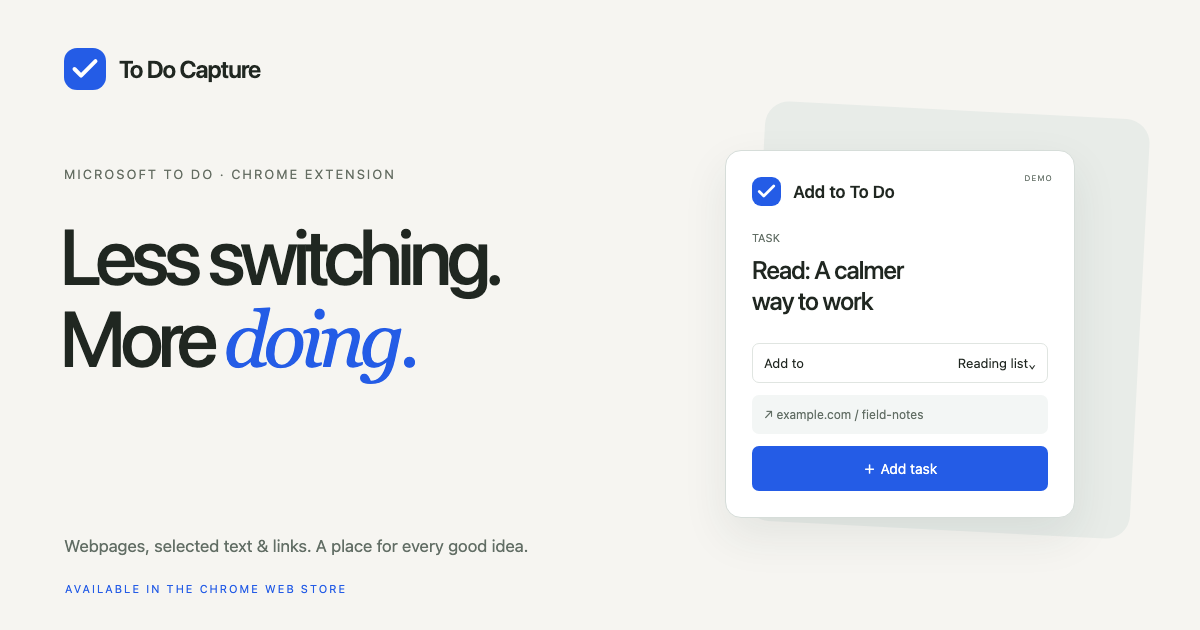
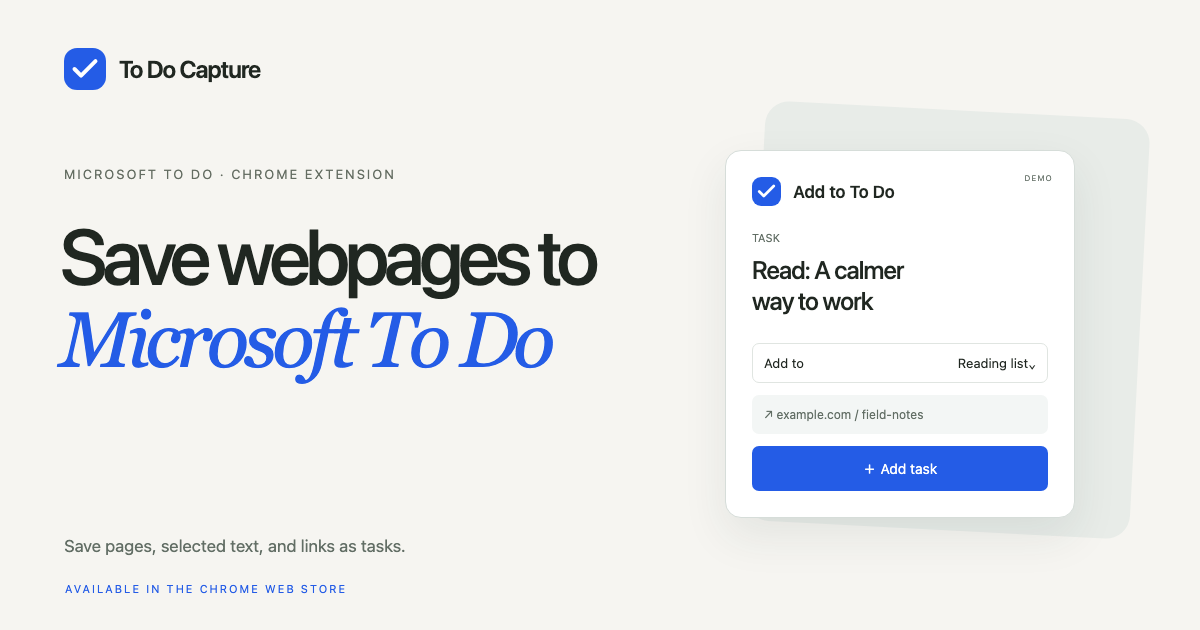
Simplify both homepages around core capture features (#8)

Changed region(s): [[0.0308, 0.3619, 0.4933, 0.6032], [0.0308, 0.8444, 0.4317, 0.8746]]

diff --git a/src/assets/site.css b/src/assets/site.css
@@ -1,34 +1,64 @@
 @layer base, layout, components, responsive;
 @layer base {
-  :root { --paper:#f6f5f1; --ink:#202721; --muted:#697169; --line:#dedfd7; --blue:#245ce6; --blue-soft:#e7edff; --green:#dce5d6; font-family:Inter,-apple-system,BlinkMacSystemFont,"Segoe UI","PingFang SC",sans-serif; color:var(--ink); background:var(--paper); font-synthesis:none; scroll-behavior:smooth; }
-  * { box-sizing:border-box; } body { margin:0; } h1,h2,h3,h4,p { margin:0; } button,input,select { font:inherit; } button,a,summary,select { -webkit-tap-highlight-color:transparent; } button,a,summary { touch-action:manipulation; } button,summary { cursor:pointer; } button { color:inherit; } a { color:inherit; text-decoration:none; } a:hover { color:var(--blue); } button:focus-visible,a:focus-visible,summary:focus-visible,select:focus-visible { outline:3px solid var(--blue); outline-offset:5px; } ::selection { background:#cfddff; color:var(--ink); } [hidden] { display:none!important; } .icon { width:21px; height:21px; flex:none; } .wrap { width:min(1120px,calc(100% - 64px)); margin-inline:auto; } .eyebrow { display:block; font-size:11px; font-weight:650; letter-spacing:.13em; line-height:1.6; } .brand { display:inline-flex; align-items:center; gap:10px; font-size:17px; font-weight:650; letter-spacing:-.045em; white-space:nowrap; } .brand-mark { flex:none; } .skip-link { position:absolute; left:16px; top:-100px; background:var(--ink); color:#fff; padding:12px; z-index:20; } .skip-link:focus { top:12px; color:#fff; }
-  h2 { font-size:45px; font-weight:500; letter-spacing:-.055em; line-height:1.17; } h3 { font-weight:550; letter-spacing:-.025em; } .button { display:inline-flex; justify-content:center; align-items:center; gap:20px; background:var(--blue); color:#fff; border:1px solid transparent; border-radius:7px; padding:15px 22px; font-size:14px; font-weight:550; min-height:50px; transition:background .18s,transform .18s; } .button:hover { background:#174cc9; color:#fff; transform:translateY(-1px); } .button:disabled { cursor:default; opacity:.75; transform:none; } .button-quiet { background:transparent; color:var(--ink); border-color:var(--line); } .button-quiet:hover { background:#ebece6; color:var(--ink); } .button-small { font-size:12px; min-height:40px; padding:10px 14px; gap:8px; } .text-button { display:inline-flex; gap:6px; align-items:center; background:none; border:0; color:var(--blue); font-size:12px; padding:5px 0; } .text-button .icon { width:16px; height:16px; }
+  :root { --paper:#f6f5f1; --ink:#202721; --muted:#697169; --line:#dedfd7; --blue:#245ce6; font-family:Inter,-apple-system,BlinkMacSystemFont,"Segoe UI","PingFang SC",sans-serif; color:var(--ink); background:var(--paper); font-synthesis:none; scroll-behavior:smooth; }
+  * { box-sizing:border-box; } body { margin:0; } h1,h2,p { margin:0; } button { font:inherit; } button,a { -webkit-tap-highlight-color:transparent; } button,a { touch-action:manipulation; } button { cursor:pointer; } button { color:inherit; } a { color:inherit; text-decoration:none; } a:hover { color:var(--blue); } button:focus-visible,a:focus-visible { outline:3px solid var(--blue); outline-offset:5px; } ::selection { background:#cfddff; color:var(--ink); } [hidden] { display:none!important; } .icon { width:21px; height:21px; flex:none; } .wrap { width:min(1120px,calc(100% - 64px)); margin-inline:auto; } .eyebrow { display:block; font-size:11px; font-weight:650; letter-spacing:.13em; line-height:1.6; } .brand { display:inline-flex; align-items:center; gap:10px; font-size:17px; font-weight:650; letter-spacing:-.045em; white-space:nowrap; } .brand-mark { flex:none; } .skip-link { position:absolute; left:16px; top:-100px; background:var(--ink); color:#fff; padding:12px; z-index:20; } .skip-link:focus { top:12px; color:#fff; }
+  h2 { font-size:45px; font-weight:500; letter-spacing:-.055em; line-height:1.17; } .button { display:inline-flex; justify-content:center; align-items:center; gap:20px; background:var(--blue); color:#fff; border:1px solid transparent; border-radius:7px; padding:15px 22px; font-size:14px; font-weight:550; min-height:50px; transition:background .18s,transform .18s; } .button:hover { background:#174cc9; color:#fff; transform:translateY(-1px); } .button:disabled { cursor:default; opacity:.75; transform:none; } .button-quiet { background:transparent; color:var(--ink); border-color:var(--line); } .button-quiet:hover { background:#ebece6; color:var(--ink); } .button-small { font-size:12px; min-height:40px; padding:10px 14px; gap:8px; }
 }
 @layer layout {
   .nav-reward { display:inline-flex; align-items:center; gap:5px; padding:6px 9px; border:1px solid rgba(255,128,200,.4); border-radius:7px; background:#ffeff7; color:#bf3989; font-weight:600; white-space:nowrap; }
   .nav-reward:hover { color:#bf3989; border-color:#bf3989; }
   .nav-reward .icon { width:14px; height:14px; }
   .site-header { height:94px; display:flex; align-items:center; justify-content:space-between; border-bottom:1px solid var(--line); } .site-header nav { display:flex; align-items:center; gap:32px; font-size:12px; } .site-header .language { display:inline-flex; align-items:center; gap:7px; } .language .icon { width:16px; height:16px; } .nav-source { display:flex; align-items:center; gap:10px; } .nav-source .icon { width:16px; height:16px; transform:rotate(-40deg); }
-  .hero { display:grid; grid-template-columns:1fr 250px; column-gap:65px; align-items:end; padding-block:82px 72px; } .hero .eyebrow { color:var(--muted); } h1 { font-size:clamp(58px,6.9vw,86px); letter-spacing:-.065em; font-weight:500; line-height:1.04; margin-top:25px; } h1 em { font-family:Georgia,"Times New Roman",serif; font-weight:400; letter-spacing:-.07em; color:var(--blue); } .hero-intro { font-size:16px; line-height:1.8; color:var(--muted); margin-top:28px; } .hero-actions { display:flex; align-items:center; gap:12px; flex-wrap:wrap; margin-top:32px; } .hero-actions .button-quiet { border:0; gap:10px; padding-inline:15px; } .hero-proof { list-style:none; padding:0; display:flex; flex-wrap:wrap; gap:20px; margin:30px 0 0; font-size:10px; color:var(--muted); } .hero-proof li { display:flex; align-items:center; gap:5px; } .hero-proof .icon { width:13px; height:13px; }
-  .release-note { border-top:1px solid var(--line); padding-top:17px; margin-bottom:6px; } .release-dot { display:inline-block; width:6px; height:6px; background:var(--blue); border-radius:100%; margin-right:5px; vertical-align:middle; } .release-note strong { font-size:10px; letter-spacing:.1em; font-weight:650; } .release-note p { margin-top:10px; font-size:12px; line-height:1.8; color:var(--muted); } .release-note a { display:inline-flex; align-items:center; gap:10px; font-size:11px; margin-top:12px; } .release-note .icon { width:15px; height:15px; }
-  .demo-section { scroll-margin-top:30px; } .demo-toolbar { display:flex; align-items:center; justify-content:space-between; gap:24px; margin-bottom:22px; } .demo-toolbar p { font-size:12px; color:var(--muted); margin-top:4px; } .demo-modes { padding:4px; display:flex; gap:3px; border:1px solid var(--line); border-radius:8px; } .demo-modes button { display:flex; align-items:center; gap:7px; border:0; background:transparent; color:var(--muted); font-size:11px; border-radius:5px; padding:10px 13px; } .demo-modes button .icon { width:15px; height:15px; } .demo-modes button[aria-pressed="true"] { background:var(--ink); color:#fff; }
-  .demo-stage { position:relative; padding:40px 0 36px 44px; background:#e8ece8; min-height:526px; border-radius:15px; } .browser-window { width:77%; background:#fffefb; border:1px solid #cfd4ce; border-radius:11px; overflow:hidden; box-shadow:0 10px 22px #2936260a; } .browser-chrome { height:43px; display:flex; gap:20px; align-items:center; padding-inline:17px; border-bottom:1px solid #e4e6df; background:#f3f4ee; } .window-dots { display:flex; gap:5px; } .window-dots i { width:6px; height:6px; border:1px solid #c2c6bd; border-radius:50%; } .browser-address { color:#626c5e; font-size:10px; } .mini-logo { margin-left:auto; } .mini-logo .brand-mark { width:20px; height:20px; }
-  .article-preview { width:67%; padding:31px 40px 30px; min-height:386px; } .article-preview .eyebrow { color:#626d59; font-size:8px; letter-spacing:.13em; } .article-preview h2 { font-family:Georgia,"Times New Roman",serif; font-size:43px; line-height:1.05; letter-spacing:-.05em; margin-top:17px; } .article-preview>p { font-size:10px; line-height:1.8; color:#626d59; margin-top:15px; max-width:280px; } .article-quote { margin-top:17px; font-family:Georgia,"Times New Roman",serif; font-style:italic; font-size:15px; line-height:1.5; color:#576447; } .article-quote span { transition:background .2s; } .demo-stage.is-selection .article-quote span { background:#d9e5fd; box-shadow:3px 0 #d9e5fd,-3px 0 #d9e5fd; } .article-link { display:inline-flex; align-items:center; gap:12px; font-size:10px; color:#5f6e4e; margin-top:18px; border-bottom:1px solid #b4c1a2; padding-bottom:3px; } .article-link .icon { width:12px; height:12px; } .demo-stage.is-link .article-link { color:var(--blue); background:#e2eaff; outline:5px solid #e2eaff; } .article-lines { margin-top:22px; display:grid; gap:7px; opacity:.45; } .article-lines span { height:3px; background:#d8dccf; width:85%; border-radius:3px; } .article-lines span:nth-child(2) { width:95%; } .article-lines span:nth-child(3) { width:60%; }
-  .capture-card { position:absolute; right:40px; top:70px; width:342px; background:#fff; border:1px solid #d6ddd9; border-radius:13px; box-shadow:0 18px 45px #243b3720,0 2px 6px #243b3710; } .capture-head { display:flex; align-items:center; gap:10px; padding:20px 20px 15px; } .capture-head .brand-mark { width:25px; height:25px; border-radius:8px; } .capture-head strong { display:block; font-size:13px; font-weight:600; letter-spacing:-.02em; } .capture-head>div>span { display:block; font-size:9px; color:#626e65; margin-top:3px; } .demo-badge { margin-left:auto; font-size:7px; letter-spacing:.08em; color:#626e65; border:1px solid #e5e9e6; border-radius:3px; padding:3px 4px; } .capture-body { padding:0 21px 17px; } .field-label { color:#626e65; font-size:9px; } .task-title { font-size:20px; font-weight:550; line-height:1.32; letter-spacing:-.04em; min-height:54px; margin:8px 0 15px; } .list-field { display:flex; align-items:center; gap:14px; font-size:10px; color:#626e65; margin-bottom:14px; } .list-field select { flex:1; min-width:0; width:100%; border:1px solid #e0e5e1; border-radius:5px; padding:8px; background:#fff; color:#465047; font-size:10px; } .source-chip { display:flex; align-items:center; gap:8px; background:#f3f6f5; border-radius:7px; padding:10px; } .source-chip>.icon { color:#8a9590; width:14px; height:14px; } .source-chip>div { flex:1; min-width:0; } .source-chip strong { display:block; font-size:9px; font-weight:400; white-space:nowrap; overflow:hidden; text-overflow:ellipsis; } .source-chip span { display:block; font-size:8px; margin-top:4px; color:#626e65; } .icon-button { background:transparent; border:0; display:grid; place-items:center; width:22px; height:24px; padding:3px; color:#8a9590; flex:none; } .icon-button .icon { width:13px; height:13px; } .demo-note { margin:10px 0 15px; } .demo-note summary { display:flex; align-items:center; gap:5px; font-size:10px; color:#5d6f61; list-style:none; } .demo-note summary::-webkit-details-marker { display:none; } .demo-note .icon { width:13px; height:13px; } .demo-note p { margin-top:8px; font-size:10px; color:#5d6f61; line-height:1.5; } .demo-submit { width:100%; min-height:40px; font-size:11px; padding:10px; border-radius:6px; gap:8px; } .demo-submit .icon { width:15px; height:15px; } .capture-footer { display:flex; justify-content:space-between; gap:10px; border-top:1px solid #edf0ed; padding:10px 21px; font-size:8px; color:#626e65; } .demo-disclaimer { text-align:right; color:#626d59; font-size:10px; margin-top:12px; } .demo-result { display:flex; gap:8px; align-items:flex-start; color:#3b6c52; background:#edf6ef; padding:10px; border-radius:7px; margin-bottom:12px; } .demo-result>.icon { width:16px; height:16px; } .demo-result strong { display:block; font-size:11px; } .demo-result p { font-size:9px; line-height:1.5; margin-top:3px; } .demo-reset { text-align:center; } .demo-reset .text-button { font-size:10px; }
-  .idea-section { padding-block:105px 100px; scroll-margin-top:45px; } .section-heading { display:grid; grid-template-columns:1.15fr 1fr; gap:90px; align-items:end; } .section-heading h2 { margin-top:17px; } .section-heading>p { color:var(--muted); font-size:14px; line-height:1.9; max-width:420px; } .capture-types { display:grid; grid-template-columns:repeat(3,1fr); gap:40px; margin-top:55px; } .capture-types article { border-top:1px solid var(--line); padding-top:22px; } .feature-icon { display:flex; align-items:center; justify-content:space-between; color:#727b6f; margin-bottom:25px; } .feature-icon .icon { width:26px; height:26px; } .feature-icon span { font-size:10px; color:#69715e; } .capture-types h3 { font-size:22px; margin-bottom:12px; } .capture-types p { font-size:12px; line-height:1.85; color:var(--muted); min-height:66px; max-width:295px; } .capture-types small { display:block; font-size:10px; color:#69715e; margin-top:21px; }
-  .flow-section { background:#e9ece3; padding-block:72px; } .flow-section h2 { margin-top:15px; } .flow-steps { display:grid; grid-template-columns:repeat(3,1fr); gap:55px; list-style:none; padding:0; margin:40px 0 60px; } .step-number { display:block; font-family:Georgia,serif; font-size:28px; font-style:italic; color:#566849; border-bottom:1px solid #ccd3c3; padding-bottom:14px; } .flow-steps h3 { font-size:17px; margin-top:20px; } .flow-steps p { font-size:12px; color:#59694d; line-height:1.85; margin-top:10px; max-width:280px; } .principles { display:grid; grid-template-columns:1fr 1.25fr; gap:100px; border-top:1px solid #ccd3c3; padding-top:40px; } .principles>h3 { font-size:29px; line-height:1.3; max-width:270px; } .principles article { display:flex; align-items:flex-start; gap:12px; margin-bottom:20px; } .principles article>span { display:grid; place-items:center; background:#dbe2d2; border-radius:50%; width:24px; height:24px; flex:none; } .principles .icon { width:13px; height:13px; color:#607653; } .principles h4 { font-weight:550; font-size:12px; } .principles p { color:#59694d; font-size:11px; line-height:1.7; margin-top:5px; }
-  .faq-section { display:grid; grid-template-columns:1fr 1.35fr; gap:100px; padding-block:100px; scroll-margin-top:40px; } .faq-section h2 { font-size:38px; margin-top:17px; } .faq-list details { border-bottom:1px solid var(--line); } .faq-list details:first-child { border-top:1px solid var(--line); } .faq-list summary { list-style:none; display:flex; gap:25px; align-items:center; justify-content:space-between; font-size:13px; line-height:1.6; padding-block:21px; } .faq-list summary::-webkit-details-marker { display:none; } .faq-list summary .icon { width:17px; height:17px; color:#626d59; transition:transform .2s; } .faq-list details[open] .icon { transform:rotate(45deg); } .faq-list p { font-size:12px; color:var(--muted); line-height:1.9; padding:0 35px 22px 0; }
-  .final-cta { background:#e7edff; padding:48px 50px; border-radius:12px; position:relative; overflow:hidden; display:flex; justify-content:space-between; align-items:center; gap:35px; } .final-cta .eyebrow { color:#455b91; } .final-cta h2 { font-size:46px; margin-top:16px; position:relative; z-index:1; } .final-cta p:not(.eyebrow) { font-size:12px; color:#52617e; line-height:1.8; margin-top:20px; max-width:360px; position:relative; z-index:1; } .final-cta .button { z-index:1; flex:none; } .final-check { position:absolute; right:110px; top:-60px; opacity:.055; transform:rotate(-15deg); } .final-check .icon { width:450px; height:450px; stroke-width:1; }
-  .site-footer { margin-top:75px; padding-block:35px; border-top:1px solid var(--line); display:grid; grid-template-columns:1fr auto; column-gap:60px; row-gap:35px; } .site-footer .brand { font-size:14px; } .site-footer .brand-mark { width:25px; height:25px; } .site-footer p { font-size:10px; color:var(--muted); margin-top:13px; } .site-footer small { display:block; font-size:9px; color:#646d5b; margin-top:7px; } .site-footer nav { display:flex; align-items:flex-start; flex-wrap:wrap; gap:22px; font-size:10px; padding-top:8px; } .site-footer nav .icon { width:12px; height:12px; vertical-align:middle; } .site-footer button { border:0; background:none; padding:0; font-size:inherit; color:inherit; } .copyright { grid-column:1/-1; color:#646d5b; font-size:9px; }
+  .hero { padding-block:clamp(48px,7vw,88px) clamp(36px,5vw,58px); }
+  .hero h1 { max-width:19ch; font-size:clamp(36px,5.4vw,72px); font-weight:550; letter-spacing:-.055em; line-height:1.08; text-wrap:balance; }
+  html[lang="zh-CN"] .hero h1 { max-width:23ch; letter-spacing:-.045em; line-height:1.2; }
+  .hero-intro { max-width:62ch; color:var(--muted); font-size:16px; line-height:1.7; margin-top:18px; }
+  .hero-actions { display:flex; align-items:center; flex-wrap:wrap; gap:12px 18px; margin-top:22px; }
+  .release-status { color:var(--muted); font-size:13px; }
+  .capture-types { display:grid; grid-template-columns:repeat(3,minmax(0,1fr)); gap:24px; }
+  .capture-types article { border-top:1px solid var(--line); padding-top:18px; }
+  .capture-types .icon { display:block; color:var(--blue); margin-bottom:12px; }
+  .capture-types h2 { font-size:20px; font-weight:600; letter-spacing:-.02em; }
+  .capture-types p { color:var(--muted); font-size:14px; line-height:1.65; margin-top:7px; }
+  .site-footer { margin-top:56px; padding-block:22px; border-top:1px solid var(--line); display:flex; justify-content:space-between; flex-wrap:wrap; gap:18px 30px; color:var(--muted); font-size:12px; }
+  .site-credit small { display:block; font-size:inherit; margin-top:6px; }
+  .site-footer nav { display:flex; align-items:flex-start; flex-wrap:wrap; gap:12px 20px; }
+  .site-footer nav .icon { width:12px; height:12px; vertical-align:middle; }
+  .site-footer button { border:0; background:none; padding:0; font-size:inherit; color:inherit; }
   .consent { position:fixed; bottom:20px; left:50%; transform:translateX(-50%); width:min(820px,calc(100% - 32px)); background:#fffefa; border:1px solid #dedfd7; box-shadow:0 8px 40px #28351f1a; padding:19px 22px; border-radius:10px; z-index:10; display:flex; align-items:center; gap:30px; } .consent strong { font-size:12px; font-weight:600; } .consent p { font-size:10px; line-height:1.7; color:var(--muted); margin-top:5px; } .consent p a { text-decoration:underline; text-underline-offset:3px; } .consent-actions { display:flex; gap:8px; flex:none; }
   .privacy-page { max-width:760px; padding-block:45px 20px; } .privacy-page>.eyebrow { color:var(--muted); margin-top:55px; } .back-link { font-size:12px; color:var(--muted); } .privacy-page h1 { font-size:55px; margin-top:18px; } .privacy-intro { margin-top:25px; font-size:17px; line-height:1.9; color:var(--muted); } .privacy-page section { margin-top:36px; } .privacy-page h2 { font-size:23px; } .privacy-page section p { font-size:14px; color:var(--muted); line-height:1.9; margin-top:12px; } .privacy-page ul { padding-left:20px; font-size:13px; line-height:2; } .privacy-page ul a { text-decoration:underline; text-underline-offset:3px; } .not-found { text-align:center; padding-block:110px; } .not-found h1 { font-size:55px; } .not-found>p:not(.eyebrow) { margin:25px 0; color:var(--muted); }
-  html[lang="zh-CN"] h1 { letter-spacing:-.07em; line-height:1.14; font-size:clamp(52px,6.3vw,76px); } html[lang="zh-CN"] h1 em { font-family:inherit; font-style:normal; font-weight:500; } html[lang="zh-CN"] .eyebrow { letter-spacing:.12em; } html[lang="zh-CN"] .article-preview h2 { font-size:35px; line-height:1.25; } html[lang="zh-CN"] h2 { line-height:1.3; } html[lang="zh-CN"] .task-title { font-size:19px; } html[lang="zh-CN"] .final-cta h2 { font-size:40px; }
 }
 @layer responsive {
-  @media(min-width:1440px) { .hero { padding-block:100px 80px; } }
-  @media(max-width:1000px) { .hero { grid-template-columns:1fr 215px; gap:35px; } .hero h1 { font-size:70px; } .hero-intro br { display:none; } .hero-intro { max-width:510px; } .hero-proof { gap:12px; } .capture-card { right:25px; width:310px; } .article-preview { padding-left:30px; width:60%; } .article-preview h2 { font-size:37px; } .demo-stage { padding-left:25px; } .section-heading,.faq-section,.principles { gap:55px; } .capture-types { gap:25px; } .final-cta { padding:40px; } }
-  @media(max-width:760px) { .wrap { width:calc(100% - 40px); } .site-header { height:78px; } .site-header nav { gap:19px; } .nav-section { display:none; } .hero { grid-template-columns:1fr; padding-block:55px 45px; gap:35px; } .hero h1 { font-size:72px; } .hero-intro { font-size:15px; } .hero-actions { gap:5px; } .hero-proof { margin-top:24px; font-size:9px; gap:13px; } .release-note { max-width:none; display:grid; grid-template-columns:auto 1fr; align-items:center; column-gap:6px; padding-top:15px; } .release-note p { grid-column:1/-1; margin-top:7px; max-width:550px; font-size:11px; } .release-note a { grid-column:1/-1; margin-top:7px; } .release-dot { margin:0; } .demo-toolbar { align-items:flex-start; flex-direction:column; gap:15px; } .demo-modes { width:100%; } .demo-modes button { justify-content:center; flex:1; padding:10px 4px; } .demo-stage { padding:22px; min-height:0; } .browser-window { width:100%; } .browser-address { font-size:9px; } .article-preview { min-height:310px; width:100%; padding:26px 28px 90px; } .article-preview h2 { font-size:40px; } .article-preview>p { max-width:260px; font-size:11px; } .article-lines,.article-link { display:none; } .article-quote { font-size:13px; } .capture-card { position:relative; width:min(342px,100%); right:auto; top:auto; margin:-54px auto 0; } .capture-head { padding-top:17px; } .demo-disclaimer { text-align:center; font-size:9px; } .idea-section { padding-block:65px; } .section-heading { grid-template-columns:1fr; gap:22px; } h2 { font-size:38px; } .section-heading>p { font-size:13px; max-width:510px; } .capture-types { grid-template-columns:1fr; gap:30px; margin-top:35px; } .capture-types article { display:grid; grid-template-columns:42px 1fr; column-gap:18px; padding-top:20px; } .feature-icon { grid-row:1/4; align-items:flex-start; flex-direction:column; justify-content:flex-start; gap:10px; } .capture-types h3 { font-size:21px; } .capture-types p { min-height:0; max-width:500px; } .capture-types small { margin-top:12px; } .flow-section { padding-block:55px; } .flow-steps { gap:24px; } .flow-steps h3 { font-size:15px; } .flow-steps p { font-size:11px; } .principles { grid-template-columns:1fr; gap:27px; } .principles>h3 { max-width:none; } .principles article { margin-bottom:20px; } .principles p { font-size:12px; } .faq-section { grid-template-columns:1fr; gap:30px; padding-block:60px; } .faq-section h2 { font-size:36px; } .faq-list summary { font-size:13px; } .final-cta { padding:32px 25px; flex-direction:column; align-items:flex-start; gap:25px; } .final-cta h2 { font-size:42px; } .final-check { right:-80px; top:30px; } .final-cta .button { font-size:13px; } .site-footer { margin-top:45px; grid-template-columns:1fr; gap:23px; } .site-footer nav { padding:0; gap:22px; font-size:11px; } .consent { flex-direction:column; align-items:stretch; gap:12px; padding:17px; bottom:12px; } .consent-actions { justify-content:flex-end; } .privacy-page h1 { font-size:43px; } .privacy-page .privacy-intro { font-size:15px; } html[lang="zh-CN"] .hero h1 { font-size:62px; } html[lang="zh-CN"] .final-cta h2 { font-size:36px; } }
-  @media(max-width:420px) { .wrap { width:calc(100% - 32px); } .brand { font-size:15px; gap:8px; } .brand-mark { width:28px; height:28px; } .site-header nav { gap:10px; } .nav-source { font-size:11px; } .nav-source .icon { display:none; } .nav-reward { padding-inline:7px; } .language { font-size:11px; } .language .icon { display:none; } .hero h1 { font-size:61px; } .hero>.hero-copy>.eyebrow { font-size:9px; } .hero-intro { font-size:14px; line-height:1.9; } .hero-actions .button { font-size:12px; padding:13px 16px; } .hero-actions .button-quiet { padding-inline:4px; } .hero-proof { flex-direction:column; gap:8px; font-size:10px; } .demo-stage { padding:15px; } .browser-chrome { padding:10px; gap:10px; } .article-preview { padding:23px 21px 85px; } .article-preview h2 { font-size:34px; } .capture-head { padding-inline:16px; } .capture-body { padding-inline:16px; } .task-title { font-size:18px; } .demo-modes button { gap:5px; font-size:10px; } .demo-modes button .icon { width:13px; } .flow-steps { grid-template-columns:1fr; gap:25px; margin-bottom:35px; } .flow-steps li { display:grid; grid-template-columns:40px 1fr; gap:5px 16px; } .step-number { grid-row:1/3; border:0; padding:0; font-size:25px; } .flow-steps h3 { margin:0; font-size:17px; } .flow-steps p { margin:0; max-width:none; font-size:12px; } .principles>h3 { font-size:27px; } h2 { font-size:34px; } .faq-section h2 { font-size:32px; } .final-cta h2 { font-size:36px; } html[lang="zh-CN"] .hero h1 { font-size:52px; } html[lang="zh-CN"] .article-preview h2 { font-size:29px; } html[lang="zh-CN"] .final-cta h2 { font-size:31px; } }
-  @media(pointer:coarse) { .site-header a { min-height:44px; align-content:center; } .site-footer nav a,.site-footer nav button { min-height:44px; display:inline-flex; align-items:center; } .demo-modes button,.demo-submit,.text-button { min-height:44px; } .icon-button { min-height:36px; min-width:30px; } .list-field select { min-height:40px; font-size:14px; } .consent .button { min-height:44px; } }
-  @media(prefers-reduced-motion:reduce) { :root { scroll-behavior:auto; } *,*::before,*::after { transition:none!important; animation:none!important; } }
+  @media (max-width:760px) {
+    .wrap { width:calc(100% - 40px); }
+    .site-header { height:78px; }
+    .site-header nav { gap:19px; }
+    .site-footer { margin-top:40px; }
+    .consent { flex-direction:column; align-items:stretch; gap:12px; padding:17px; bottom:12px; }
+    .consent-actions { justify-content:flex-end; }
+    .privacy-page h1 { font-size:43px; }
+    .privacy-page .privacy-intro { font-size:15px; }
+  }
+  @media (max-width:600px) {
+    .capture-types { grid-template-columns:1fr; gap:18px; }
+    .capture-types article { display:grid; grid-template-columns:21px 1fr; column-gap:12px; align-items:center; }
+    .capture-types .icon { margin-bottom:0; }
+    .capture-types p { grid-column:2; }
+    .hero-intro { font-size:15px; }
+  }
+  @media (max-width:420px) {
+    .wrap { width:calc(100% - 32px); }
+    .brand { font-size:15px; gap:8px; }
+    .brand-mark { width:28px; height:28px; }
+    .site-header nav { gap:10px; font-size:11px; }
+    .nav-source .icon, .language .icon { display:none; }
+    .nav-reward { padding-inline:7px; }
+    .hero-actions .button { font-size:13px; gap:12px; padding:12px 15px; }
+  }
+  @media (pointer:coarse) {
+    .site-header a { min-height:44px; align-content:center; }
+    .site-footer nav a,.site-footer nav button { min-height:44px; display:inline-flex; align-items:center; }
+    .consent .button { min-height:44px; }
+  }
+  @media (prefers-reduced-motion:reduce) { :root { scroll-behavior:auto; } *,*::before,*::after { transition:none!important; animation:none!important; } }
 }

diff --git a/src/assets/site.js b/src/assets/site.js
@@ -5,59 +5,3 @@ document.querySelectorAll('[data-track]').forEach(link => link.addEventListener(
   const type = link.dataset.track;
   track(type, type === 'language_switch' ? { target_language: link.dataset.trackValue } : { cta_location: link.dataset.trackValue });
 }));
-document.querySelectorAll('[data-faq]').forEach(details => details.addEventListener('toggle', () => {
-  if (details.open) track('faq_expand', { faq_id: details.dataset.faq });
-}));
-
-const data = document.getElementById('demo-content');
-if (data) {
-  const copy = JSON.parse(data.textContent);
-  const modes = ['page', 'selection', 'link'];
-  let mode = 'page';
-  let source = true;
-  let completed = false;
-  const stage = document.querySelector('.demo-stage');
-  const sourceElement = document.querySelector('[data-demo-source]');
-  const restore = document.querySelector('[data-demo-restore]');
-  const submit = document.querySelector('[data-demo-submit]');
-  const result = document.querySelector('[data-demo-result]');
-  const reset = document.querySelector('[data-demo-reset-wrap]');
-
-  /** 切换示例内容和反馈，所有数据均为本地演示，喵~ */
-  function renderDemo() {
-    const index = modes.indexOf(mode);
-    document.querySelectorAll('[data-demo-mode]').forEach(button => button.setAttribute('aria-pressed', String(button.dataset.demoMode === mode)));
-    stage.classList.toggle('is-selection', mode === 'selection');
-    stage.classList.toggle('is-link', mode === 'link');
-    document.querySelector('[data-demo-title]').textContent = copy.titles[index];
-    document.querySelector('[data-demo-source-title]').textContent = copy.sources[index];
-    sourceElement.hidden = !source;
-    restore.hidden = source;
-    submit.hidden = completed;
-    result.hidden = !completed;
-    reset.hidden = !completed;
-  }
-
-  document.querySelectorAll('[data-demo-mode]').forEach(button => button.addEventListener('click', () => {
-    mode = button.dataset.demoMode;
-    source = true;
-    completed = false;
-    renderDemo();
-    track('demo_mode_select', { capture_type: mode });
-  }));
-  document.querySelector('[data-demo-link]').addEventListener('click', event => {
-    event.preventDefault();
-    mode = 'link'; source = true; completed = false; renderDemo();
-    track('demo_mode_select', { capture_type: mode });
-  });
-  document.querySelector('[data-demo-remove]').addEventListener('click', () => { source = false; renderDemo(); });
-  restore.addEventListener('click', () => { source = true; renderDemo(); });
-  submit.addEventListener('click', () => {
-    completed = true;
-    document.querySelector('[data-demo-result-title]').textContent = `${copy.added}「${document.querySelector('[data-demo-list]').value}」`;
-    renderDemo();
-    track('demo_complete', { capture_type: mode });
-    document.querySelector('[data-demo-reset]').focus({ preventScroll: true });
-  });
-  document.querySelector('[data-demo-reset]').addEventListener('click', () => { completed = false; renderDemo(); submit.focus({ preventScroll: true }); });
-}

diff --git a/src/assets/analytics.js b/src/assets/analytics.js
@@ -1,11 +1,7 @@
 const schema = {
-  project_click: { cta_location: ['header', 'hero', 'release_note', 'final'] },
+  project_click: { cta_location: ['header'] },
   website_source_click: { cta_location: ['footer'] },
-  demo_open: { cta_location: ['hero'] },
   language_switch: { target_language: ['en', 'zh'] },
-  demo_mode_select: { capture_type: ['page', 'selection', 'link'] },
-  demo_complete: { capture_type: ['page', 'selection', 'link'] },
-  faq_expand: { faq_id: ['question_1', 'question_2', 'question_3', 'question_4', 'question_5'] },
 };
 const preferenceKey = 'tdc_analytics_v1';
 let enabled = false;

diff --git a/README.md b/README.md
@@ -21,7 +21,7 @@ npx playwright install chromium
 npm run check
 ```
 
-Checks cover static SEO metadata, localized content, analytics data filtering, the interactive demo, narrow layouts, accessibility, consent and Global Privacy Control. `node scripts/generate-og.mjs` regenerates the committed 1200 × 630 sharing image.
+Checks cover static SEO metadata, localized content, the installation link, narrow layouts, accessibility, consent and Global Privacy Control. `node scripts/generate-og.mjs` regenerates the committed 1200 × 630 sharing image.
 
 ## Chrome Web Store assets
 
@@ -41,7 +41,7 @@ Update screenshots from the matching extension build using sample data. Keep the
 
 ## Product state and publication
 
-The English and Chinese homepages link to the Chrome Web Store listing. Update `extensionVersion` in `src/config.mjs` after verifying a new store release. The site demo uses local sample data and never logs in or creates tasks.
+The English and Chinese homepages describe the three capture modes and link to the Chrome Web Store listing. Update `extensionVersion` in `src/config.mjs` after verifying a new store release.
 
 Vercel builds the site with `npm run build` and serves `dist/`. `vercel.json` declares the output, security headers and immutable caching for content-fingerprinted assets. Preview builds emit `noindex,nofollow` and a disallowing robots file. Production builds are indexable. When changing the production domain, update `src/config.mjs` and redeploy so the canonical, hreflang, sitemap, Open Graph and analytics host stay consistent.
 
@@ -60,15 +60,11 @@ Analytics load only after opt-in on the configured production hostname. Preview/
 | `page_view` | `site_language`, `page_type` | One consented page view |
 | `project_click` | `cta_location` | Interest in the GitHub project, not an installation |
 | `website_source_click` | `cta_location` | Website source click |
-| `demo_open` | `cta_location` | Hero demo link click |
-| `demo_mode_select` | `capture_type` | Page, selection or link preview |
-| `demo_complete` | `capture_type` | Demonstration completed, not a real task saved |
-| `faq_expand` | `faq_id` | One of five predefined FAQ questions opened |
 | `language_switch` | `target_language` | Language navigation |
 
 Every interaction also includes `site_language`, `page_type` and a cleaned page location. Parameters are allowlisted fixed values. No notes, selections, task titles, user IDs or Microsoft account information are sent. No events are replayed from before consent. `_ga` cookies are cleared on withdrawal.
 
-Custom parameters must be registered as event-scoped dimensions in GA4 to use them in standard explorations: `site_language`, `page_type`, `capture_type`, `cta_location`, `faq_id`, `target_language`. Registration requires Analytics Editor access and an edit-scoped OAuth connection. Event collection and event-name reports work without dimension registration. Do not mark `demo_complete` as an installation conversion.
+Custom parameters must be registered as event-scoped dimensions in GA4 to use them in standard explorations: `site_language`, `page_type`, `cta_location`, `target_language`. Registration requires Analytics Editor access and an edit-scoped OAuth connection. Event collection and event-name reports work without dimension registration.
 
 For DebugView, a consented production visit may use `?analytics_debug=1`; this parameter is stripped from the reported page address. Browser test fixtures intercept Google requests so CI does not add real traffic. Keep automatic page history, site search and other enhanced events disabled in the website data stream. The site defines its own page views and interactions.
 
